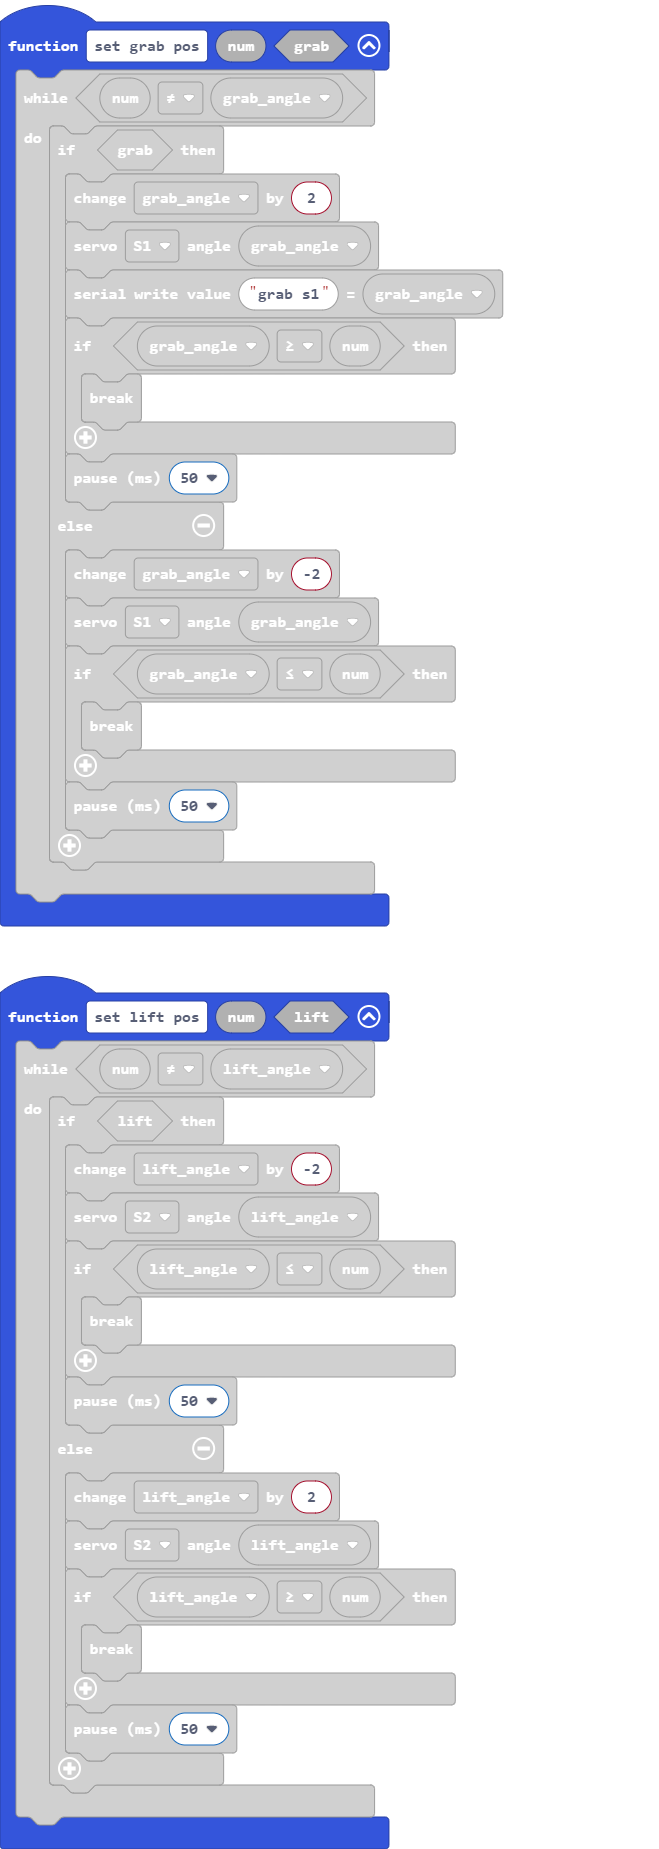
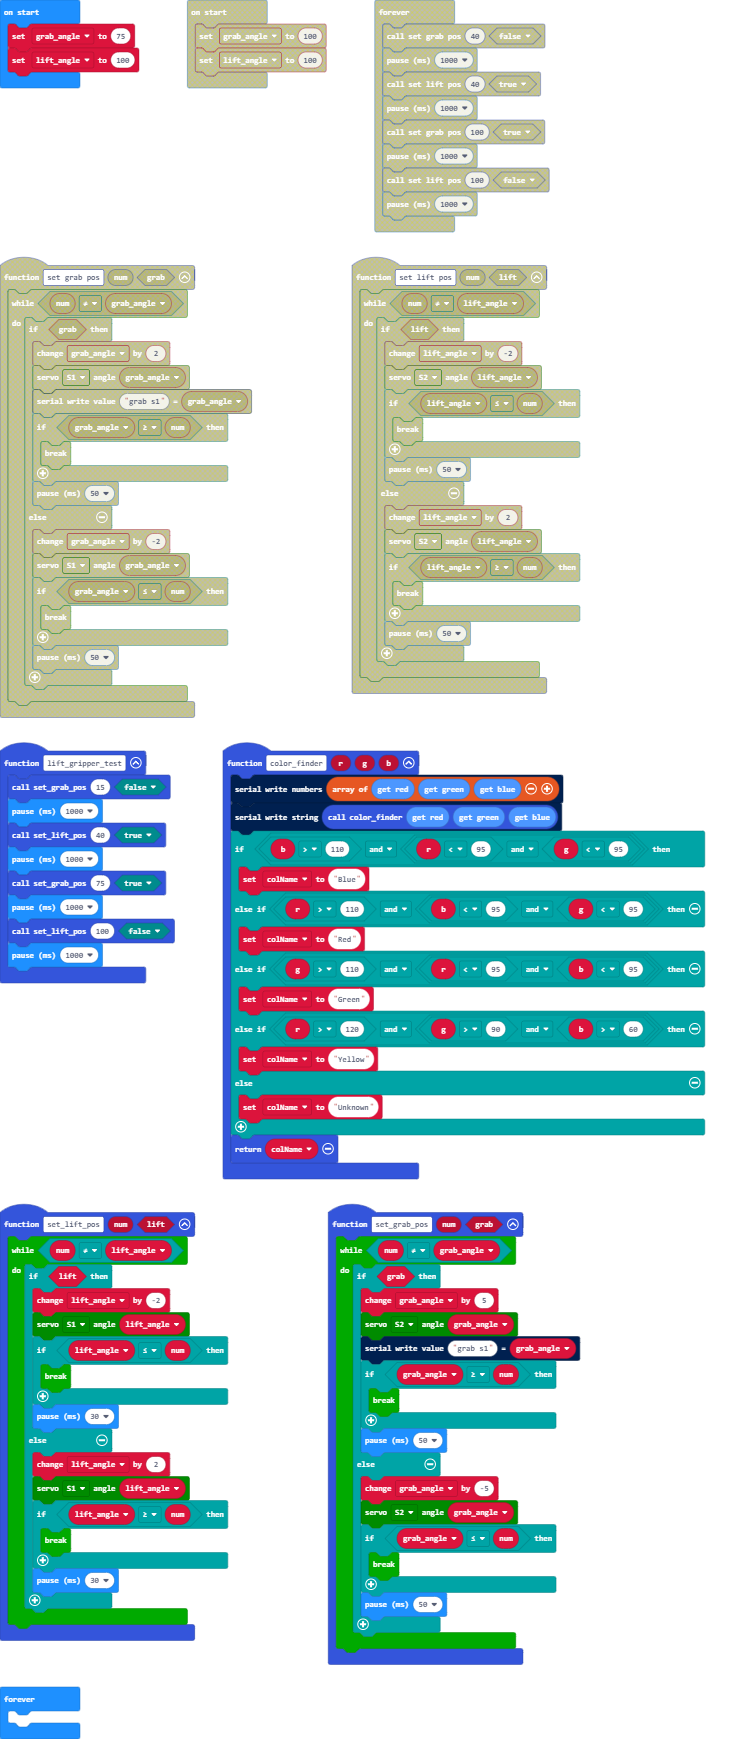
Update pxt.json, main.blocks, main.ts

diff --git a/main.ts b/main.ts
@@ -1,35 +1,16 @@
-function set_lift_pos (num: number, lift: boolean) {
-    while (num != lift_angle) {
-        if (lift) {
-            lift_angle += -2
-            maqueen.servoRun(maqueen.Servos.S2, lift_angle)
-            if (lift_angle <= num) {
-                break;
-            }
-            basic.pause(50)
-        } else {
-            lift_angle += 2
-            maqueen.servoRun(maqueen.Servos.S2, lift_angle)
-            if (lift_angle >= num) {
-                break;
-            }
-            basic.pause(50)
-        }
-    }
-}
 function set_grab_pos (num: number, grab: boolean) {
     while (num != grab_angle) {
         if (grab) {
-            grab_angle += 2
-            maqueen.servoRun(maqueen.Servos.S1, grab_angle)
+            grab_angle += 5
+            maqueen.servoRun(maqueen.Servos.S2, grab_angle)
             serial.writeValue("grab s1", grab_angle)
             if (grab_angle >= num) {
                 break;
             }
             basic.pause(50)
         } else {
-            grab_angle += -2
-            maqueen.servoRun(maqueen.Servos.S1, grab_angle)
+            grab_angle += -5
+            maqueen.servoRun(maqueen.Servos.S2, grab_angle)
             if (grab_angle <= num) {
                 break;
             }
@@ -37,17 +18,56 @@ function set_grab_pos (num: number, grab: boolean) {
         }
     }
 }
-let lift_angle = 0
-let grab_angle = 0
-grab_angle = 100
-lift_angle = 100
-basic.forever(function () {
-    set_grab_pos(40, false)
+function set_lift_pos (num: number, lift: boolean) {
+    while (num != lift_angle) {
+        if (lift) {
+            lift_angle += -2
+            maqueen.servoRun(maqueen.Servos.S1, lift_angle)
+            if (lift_angle <= num) {
+                break;
+            }
+            basic.pause(30)
+        } else {
+            lift_angle += 2
+            maqueen.servoRun(maqueen.Servos.S1, lift_angle)
+            if (lift_angle >= num) {
+                break;
+            }
+            basic.pause(30)
+        }
+    }
+}
+function lift_gripper_test () {
+    set_grab_pos(15, false)
     basic.pause(1000)
     set_lift_pos(40, true)
     basic.pause(1000)
-    set_grab_pos(100, true)
+    set_grab_pos(75, true)
     basic.pause(1000)
     set_lift_pos(100, false)
     basic.pause(1000)
+}
+function color_finder (r: number, g: number, b: number): any {
+    serial.writeNumbers([OrientBit.getRed(), OrientBit.getGreen(), OrientBit.getBlue()])
+    serial.writeString("" + (color_finder(OrientBit.getRed(), OrientBit.getGreen(), OrientBit.getBlue())))
+    if (b > 110 && (r < 95 && g < 95)) {
+        colName = "Blue"
+    } else if (r > 110 && (b < 95 && g < 95)) {
+        colName = "Red"
+    } else if (g > 110 && (r < 95 && b < 95)) {
+        colName = "Green"
+    } else if (r > 120 && (g > 90 && b > 60)) {
+        colName = "Yellow"
+    } else {
+        colName = "Unknown"
+    }
+    return colName
+}
+let colName = ""
+let lift_angle = 0
+let grab_angle = 0
+grab_angle = 75
+lift_angle = 100
+basic.forever(function () {
+	
 })
